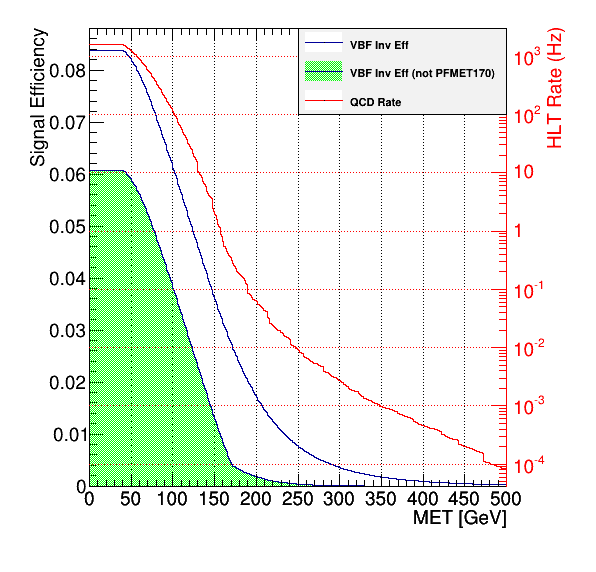
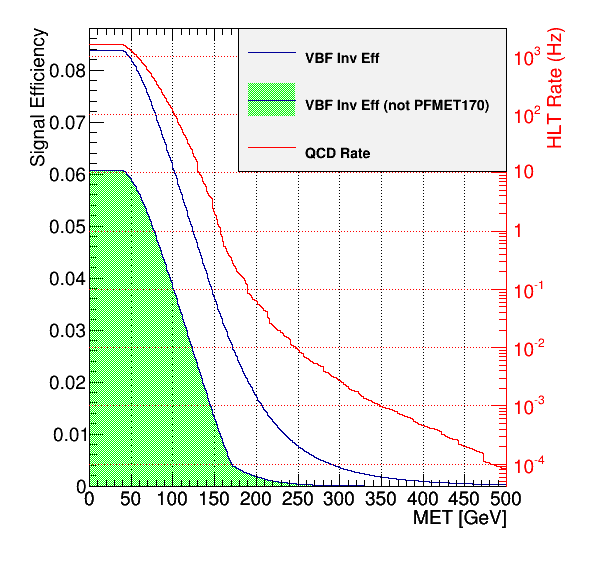
Increase in legend size

Changed region(s): [[0.3926, 0.0594, 0.8456, 0.208], [0.5134, 0.2378, 0.6342, 0.2972]]

diff --git a/PhDThesis/Chapter08/TriggerStudies/HLT/Seed_DijetVBF30_DEta3p5_SingleJet96/HLT_DijetVBF40-40_DEta4p3_MJJ800.C b/PhDThesis/Chapter08/TriggerStudies/HLT/Seed_DijetVBF30_DEta3p5_SingleJet96/HLT_DijetVBF40-40_DEta4p3_MJJ800.C
@@ -1,6 +1,6 @@
 {
 //=========Macro generated from canvas: rates_pf_met/
-//=========  (Fri Dec 11 05:15:23 2015) by ROOT version5.34/18
+//=========  (Wed Dec 30 05:22:24 2015) by ROOT version5.34/18
    TCanvas *rates_pf_met = new TCanvas("rates_pf_met", "",0,0,600,600);
    gStyle->SetOptFit(1);
    gStyle->SetOptStat(0);
@@ -1556,7 +1556,7 @@
    rate_HLT PF MET->GetZaxis()->SetTitleFont(42);
    rate_HLT PF MET->Draw("Y+");
    
-   TLegend *leg = new TLegend(0.5,0.8,0.85,0.95,NULL,"brNDC");
+   TLegend *leg = new TLegend(0.4,0.7,0.85,0.95,NULL,"brNDC");
    leg->SetBorderSize(1);
    leg->SetTextFont(62);
    leg->SetLineColor(1);
@@ -1564,18 +1564,17 @@
    leg->SetLineWidth(1);
    leg->SetFillColor(19);
    leg->SetFillStyle(1001);
-   TLegendEntry *entry=leg->AddEntry("Sig_Total_pf_met_eff","VBF Inv Eff","lpf");
-   entry->SetFillStyle(1001);
+   TLegendEntry *entry=leg->AddEntry("Sig_Total_pf_met_eff","VBF Inv Eff","L");
 
    ci = TColor::GetColor("#000099");
    entry->SetLineColor(ci);
    entry->SetLineStyle(1);
    entry->SetLineWidth(1);
    entry->SetMarkerColor(1);
-   entry->SetMarkerStyle(1);
+   entry->SetMarkerStyle(21);
    entry->SetMarkerSize(1);
    entry->SetTextFont(62);
-   entry=leg->AddEntry("Sig_NoPFMET170_pf_met_eff","VBF Inv Eff (not PFMET170)","lpf");
+   entry=leg->AddEntry("Sig_NoPFMET170_pf_met_eff","VBF Inv Eff (not PFMET170)","LF");
 
    ci = TColor::GetColor("#00ff00");
    entry->SetFillColor(ci);
@@ -1586,18 +1585,17 @@
    entry->SetLineStyle(1);
    entry->SetLineWidth(1);
    entry->SetMarkerColor(1);
-   entry->SetMarkerStyle(1);
+   entry->SetMarkerStyle(21);
    entry->SetMarkerSize(1);
    entry->SetTextFont(62);
-   entry=leg->AddEntry("rate_HLT PF MET","QCD Rate","lpf");
-   entry->SetFillStyle(1001);
+   entry=leg->AddEntry("rate_HLT PF MET","QCD Rate","L");
 
    ci = TColor::GetColor("#ff0000");
    entry->SetLineColor(ci);
    entry->SetLineStyle(1);
    entry->SetLineWidth(1);
    entry->SetMarkerColor(1);
-   entry->SetMarkerStyle(1);
+   entry->SetMarkerStyle(21);
    entry->SetMarkerSize(1);
    entry->SetTextFont(62);
    leg->Draw();

diff --git a/PhDThesis/Chapter08/TriggerStudies/HLT/Seed_DijetVBF30_DEta3p5_SingleJet96/HLT_DijetVBF90-40_DEta4p1_MJJ500.C b/PhDThesis/Chapter08/TriggerStudies/HLT/Seed_DijetVBF30_DEta3p5_SingleJet96/HLT_DijetVBF90-40_DEta4p1_MJJ500.C
@@ -1,6 +1,6 @@
 {
 //=========Macro generated from canvas: rates_pf_met/
-//=========  (Fri Dec 11 05:40:46 2015) by ROOT version5.34/18
+//=========  (Wed Dec 30 05:49:17 2015) by ROOT version5.34/18
    TCanvas *rates_pf_met = new TCanvas("rates_pf_met", "",0,0,600,600);
    gStyle->SetOptFit(1);
    gStyle->SetOptStat(0);
@@ -1556,7 +1556,7 @@
    rate_HLT PF MET->GetZaxis()->SetTitleFont(42);
    rate_HLT PF MET->Draw("Y+");
    
-   TLegend *leg = new TLegend(0.5,0.8,0.85,0.95,NULL,"brNDC");
+   TLegend *leg = new TLegend(0.4,0.7,0.85,0.95,NULL,"brNDC");
    leg->SetBorderSize(1);
    leg->SetTextFont(62);
    leg->SetLineColor(1);
@@ -1564,18 +1564,17 @@
    leg->SetLineWidth(1);
    leg->SetFillColor(19);
    leg->SetFillStyle(1001);
-   TLegendEntry *entry=leg->AddEntry("Sig_Total_pf_met_eff","VBF Inv Eff","lpf");
-   entry->SetFillStyle(1001);
+   TLegendEntry *entry=leg->AddEntry("Sig_Total_pf_met_eff","VBF Inv Eff","L");
 
    ci = TColor::GetColor("#000099");
    entry->SetLineColor(ci);
    entry->SetLineStyle(1);
    entry->SetLineWidth(1);
    entry->SetMarkerColor(1);
-   entry->SetMarkerStyle(1);
+   entry->SetMarkerStyle(21);
    entry->SetMarkerSize(1);
    entry->SetTextFont(62);
-   entry=leg->AddEntry("Sig_NoPFMET170_pf_met_eff","VBF Inv Eff (not PFMET170)","lpf");
+   entry=leg->AddEntry("Sig_NoPFMET170_pf_met_eff","VBF Inv Eff (not PFMET170)","LF");
 
    ci = TColor::GetColor("#00ff00");
    entry->SetFillColor(ci);
@@ -1586,18 +1585,17 @@
    entry->SetLineStyle(1);
    entry->SetLineWidth(1);
    entry->SetMarkerColor(1);
-   entry->SetMarkerStyle(1);
+   entry->SetMarkerStyle(21);
    entry->SetMarkerSize(1);
    entry->SetTextFont(62);
-   entry=leg->AddEntry("rate_HLT PF MET","QCD Rate","lpf");
-   entry->SetFillStyle(1001);
+   entry=leg->AddEntry("rate_HLT PF MET","QCD Rate","L");
 
    ci = TColor::GetColor("#ff0000");
    entry->SetLineColor(ci);
    entry->SetLineStyle(1);
    entry->SetLineWidth(1);
    entry->SetMarkerColor(1);
-   entry->SetMarkerStyle(1);
+   entry->SetMarkerStyle(21);
    entry->SetMarkerSize(1);
    entry->SetTextFont(62);
    leg->Draw();
